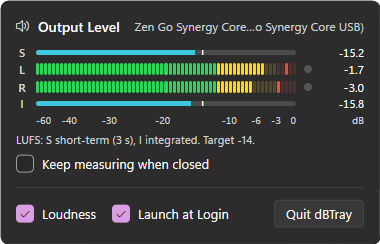
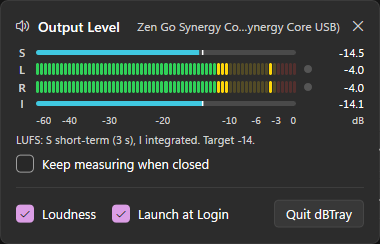
Keep the meter open until it is closed
The meter no longer closes when another window takes the focus. It
stays on top until the tray icon is clicked again, its new close
button is clicked, or Esc is pressed. The tray menu offers Close Meter
while it is open, and the open meter moves back next to the icon when
the screen or taskbar changes. Version 1.1.0.

diff --git a/src/MeterWindow.cpp b/src/MeterWindow.cpp
@@ -42,6 +42,8 @@ constexpr float kCheckboxLabelGap = 8;
 constexpr float kCheckboxRowHeight = 22;
 constexpr float kControlHeight = 28;
 constexpr float kControlRadius = 4;
+constexpr float kCloseButtonSize = 28;
+constexpr float kCloseButtonOverhang = 8;  // into the right padding, so the glyph lines up with the content
 constexpr float kNoteHeight = 18;
 constexpr float kWarningIndent = 20;
 constexpr float kScreenMargin = 12;
@@ -72,11 +74,13 @@ const Style kWarningStyle{12, kRegular, kLeading, true};
 const Style kHeaderIconStyle{16, kRegular, kLeading, false, false, true};
 const Style kWarningIconStyle{13, kRegular, kLeading, false, false, true};
 const Style kCheckIconStyle{12, kRegular, kCenter, false, false, true};
+const Style kCloseIconStyle{10, kRegular, kCenter, false, false, true};
 
 // Segoe Fluent Icons (Segoe MDL2 Assets on Windows 10) code points.
 constexpr wchar_t kSpeakerGlyph[] = L"\xE994";
 constexpr wchar_t kWarningGlyph[] = L"\xE7BA";
 constexpr wchar_t kCheckGlyph[] = L"\xE73E";
+constexpr wchar_t kCloseGlyph[] = L"\xE8BB";
 constexpr wchar_t kInfinity[] = L"-\x221E";
 constexpr wchar_t kEllipsis[] = L"\x2026";
 
@@ -89,6 +93,7 @@ constexpr wchar_t kOpenSettingsLabel[] = L"Open Settings";
 constexpr wchar_t kDisabledNote[] = L"Turn dBTray on in Startup apps to finish.";
 constexpr wchar_t kOtherCopyNote[] = L"Launch at Login is set for another copy of dBTray.";
 
+constexpr wchar_t kCloseHelp[] = L"Close";
 constexpr wchar_t kPeakHelp[] = L"Peak since last reset. Click to reset peaks and integrated loudness.";
 constexpr wchar_t kClipHelp[] = L"Clip indicator: lights when the signal reaches 0 dBFS";
 constexpr wchar_t kLoudnessHelp[] = L"Show short-term and integrated loudness (LUFS)";
@@ -211,16 +216,21 @@ void MeterWindow::Show(const RECT* icon) {
     UpdateWindow(hwnd_);
 }
 
-void MeterWindow::HideWindow(bool deactivated) {
-    if (hiding_ || !IsVisible()) return;
-    hiding_ = true;
+void MeterWindow::Hide() {
+    if (!IsVisible()) return;
     ShowWindow(hwnd_, SW_HIDE);
-    hiding_ = false;
     hover_ = pressed_ = focus_ = Control::None;
     ReleaseGraphics();
-    app_.OnMeterHidden(deactivated);
+    app_.OnMeterHidden();
     // Hand the pages the flyout touched back to the system; a tray app should sit small.
     SetProcessWorkingSetSize(GetCurrentProcess(), SIZE_T(-1), SIZE_T(-1));
+}
+
+void MeterWindow::Reposition(const RECT* icon) {
+    if (!IsVisible()) return;
+    hasIcon_ = icon != nullptr;
+    if (icon) iconRect_ = *icon;
+    Place();
 }
 
 void MeterWindow::Update() {
@@ -274,8 +284,10 @@ void MeterWindow::Relayout() {
     float y = kPadding;
 
     layout.header = {left, y, right, y + kHeaderHeight};
+    const float closeRight = right + kCloseButtonOverhang;
+    layout.closeButton = Centered(closeRight - kCloseButtonSize, closeRight, CenterY(layout.header), kCloseButtonSize);
     layout.titleWidth = std::ceil(Measure(kTitle, kTitleStyle).width);
-    const float nameWidth = right - (left + 16 + 6 + layout.titleWidth + 12);
+    const float nameWidth = layout.closeButton.left - 4 - (left + 16 + 6 + layout.titleWidth + 12);
     layout.deviceName = TruncateMiddle(model.OutputDeviceName(), kDeviceStyle, nameWidth);
     y += kHeaderHeight;
 
@@ -465,12 +477,14 @@ void MeterWindow::RebuildTooltips() {
         add(layout_.keepMeasuring, kKeepMeasuringHelp);
     }
     add(layout_.loudnessToggle, kLoudnessHelp);
+    add(layout_.closeButton, kCloseHelp);
 }
 
 // MARK: Input
 
 MeterWindow::Control MeterWindow::HitTest(float x, float y) const {
     const Layout& l = layout_;
+    if (Contains(l.closeButton, x, y)) return Control::Close;
     if (l.showsLoudness && Contains(l.keepMeasuring, x, y)) return Control::KeepMeasuring;
     if (Contains(l.loudnessToggle, x, y)) return Control::Loudness;
     if (Contains(l.launchToggle, x, y)) return Control::LaunchAtLogin;
@@ -519,6 +533,9 @@ void MeterWindow::MoveFocus(int step) {
 void MeterWindow::Activate(Control control) {
     Settings& settings = app_.Preferences();
     switch (control) {
+    case Control::Close:
+        Hide();
+        break;
     case Control::Meters:
         app_.Model().ResetPeaks();
         Invalidate();
@@ -577,8 +594,11 @@ LRESULT MeterWindow::HandleMessage(UINT message, WPARAM wParam, LPARAM lParam) {
         if (!positioning_) Resize();
         return 0;
     case WM_ACTIVATE:
-        // Like the system's flyouts, close as soon as something else gets the focus.
-        if (LOWORD(wParam) == WA_INACTIVE) HideWindow(true);
+        // The flyout stays open when another window takes the focus; the focus ring goes.
+        if (LOWORD(wParam) == WA_INACTIVE && showsFocus_) {
+            showsFocus_ = false;
+            Invalidate();
+        }
         break;
     case WM_MOUSEMOVE: {
         const Control control = HitTest(GET_X_LPARAM(lParam) / Scale(), GET_Y_LPARAM(lParam) / Scale());
@@ -773,6 +793,7 @@ void MeterWindow::Render() {
     target_->Clear(colors.background);
 
     DrawHeader();
+    DrawCloseButton();
     if (!l.error.empty()) DrawWarning(l.errorRect, l.error);
 
     if (l.showsLoudness) DrawLoudnessRow(l.shortTermRow, L"S", model.Reading().shortTerm);
@@ -823,7 +844,8 @@ void MeterWindow::DrawHeader() {
     DrawString(kTitle, Centered(titleLeft, titleLeft + layout_.titleWidth + 4, centerY), kTitleStyle,
                colors.textPrimary);
     if (!layout_.deviceName.empty()) {
-        DrawString(layout_.deviceName, Centered(titleLeft + layout_.titleWidth + 8, header.right, centerY),
+        DrawString(layout_.deviceName,
+                   Centered(titleLeft + layout_.titleWidth + 8, layout_.closeButton.left - 4, centerY),
                    kDeviceStyle, colors.textSecondary);
     }
 }
@@ -965,6 +987,19 @@ void MeterWindow::DrawButton(const D2D1_RECT_F& rect, const wchar_t* label, Cont
                     pressed ? colors.buttonFillPressed : hovered ? colors.buttonFillHover : colors.buttonFill);
     StrokeRoundedRect(inset, kControlRadius, colors.buttonStroke, 1);
     DrawString(label, rect, kButtonStyle, pressed ? colors.textSecondary : colors.textPrimary);
+}
+
+// A borderless button like the close buttons of Windows 11 flyouts: a fill only under the mouse.
+void MeterWindow::DrawCloseButton() {
+    const Palette& colors = app_.Colors();
+    const bool hovered = hover_ == Control::Close;
+    const bool pressed = hovered && pressed_ == Control::Close;
+    if (hovered) {
+        FillRoundedRect(layout_.closeButton, kControlRadius,
+                        pressed ? colors.subtleFillPressed : colors.subtleFillHover);
+    }
+    DrawString(kCloseGlyph, layout_.closeButton, kCloseIconStyle,
+               hovered && !pressed ? colors.textPrimary : colors.textSecondary);
 }
 
 void MeterWindow::DrawFocusRing() {

diff --git a/src/App.cpp b/src/App.cpp
@@ -15,7 +15,7 @@ constexpr wchar_t kTip[] = L"dBTray output level";
 // Windows shows no indicator while an app listens to the output, so the icon says it.
 constexpr wchar_t kMeasuringTip[] = L"dBTray output level\nMeasuring loudness while closed";
 
-constexpr UINT kOpenMeterCommand = 1;
+constexpr UINT kToggleMeterCommand = 1;
 constexpr UINT kQuitCommand = 2;
 
 // Tells the app window when the default output device changes, so capture can move to it.
@@ -137,14 +137,12 @@ void App::ShowMeter() {
     UpdateTrayTip();
 }
 
-void App::OnMeterHidden(bool deactivated) {
-    if (deactivated) {
-        POINT cursor;
-        RECT icon;
-        if (GetCursorPos(&cursor) && tray_.GetRect(icon) && PtInRect(&icon, cursor)) {
-            ignoreSelectUntil_ = GetTickCount64() + 1000;
-        }
-    }
+void App::RepositionMeter() {
+    RECT icon;
+    meter_.Reposition(tray_.GetRect(icon) ? &icon : nullptr);
+}
+
+void App::OnMeterHidden() {
     if (settings_.KeepsMeasuringWhenClosed()) {
         model_.SetVisible(false);
     } else {
@@ -167,17 +165,14 @@ void App::RefreshTheme() {
 void App::OnTrayEvent(UINT event, POINT position) {
     switch (event) {
     case NIN_SELECT:
-    case NIN_KEYSELECT: {
-        const ULONGLONG now = GetTickCount64();
-        if (now < ignoreSelectUntil_) {
-            ignoreSelectUntil_ = 0;
-        } else if (!meter_.IsVisible()) {
+    case NIN_KEYSELECT:
+        // The icon opens and closes the meter; it stays open in between.
+        if (!meter_.IsVisible()) {
             ShowMeter();
-        } else if (now - shownAt_ > 300) {  // Enter reports NIN_KEYSELECT twice
+        } else if (GetTickCount64() - shownAt_ > 300) {  // Enter reports NIN_KEYSELECT twice
             meter_.Hide();
         }
         break;
-    }
     case WM_CONTEXTMENU:
         ShowMenu(position);
         break;
@@ -187,10 +182,10 @@ void App::OnTrayEvent(UINT event, POINT position) {
 void App::ShowMenu(POINT position) {
     const HMENU menu = CreatePopupMenu();
     if (!menu) return;
-    AppendMenuW(menu, MF_STRING, kOpenMeterCommand, L"Open Meter");
+    AppendMenuW(menu, MF_STRING, kToggleMeterCommand, meter_.IsVisible() ? L"Close Meter" : L"Open Meter");
     AppendMenuW(menu, MF_SEPARATOR, 0, nullptr);
     AppendMenuW(menu, MF_STRING, kQuitCommand, L"Quit dBTray");
-    SetMenuDefaultItem(menu, kOpenMeterCommand, FALSE);
+    SetMenuDefaultItem(menu, kToggleMeterCommand, FALSE);
 
     // The menu only closes on a click elsewhere if its owner is the foreground window.
     SetForegroundWindow(window_);
@@ -200,7 +195,13 @@ void App::ShowMenu(POINT position) {
     PostMessageW(window_, WM_NULL, 0, 0);
     DestroyMenu(menu);
 
-    if (command == kOpenMeterCommand && !meter_.IsVisible()) ShowMeter();
+    if (command == kToggleMeterCommand) {
+        if (meter_.IsVisible()) {
+            meter_.Hide();
+        } else {
+            ShowMeter();
+        }
+    }
     if (command == kQuitCommand) Quit();
 }
 
@@ -258,6 +259,7 @@ LRESULT App::HandleMessage(UINT message, WPARAM wParam, LPARAM lParam) {
         } else {
             tray_.UpdateImage();
         }
+        if (wParam == SPI_SETWORKAREA) RepositionMeter();  // the taskbar moved or changed size
         return 0;
     case WM_DWMCOLORIZATIONCOLORCHANGED:
         RefreshTheme();
@@ -265,6 +267,7 @@ LRESULT App::HandleMessage(UINT message, WPARAM wParam, LPARAM lParam) {
     case WM_DISPLAYCHANGE:
     case WM_DPICHANGED:
         tray_.UpdateImage();
+        RepositionMeter();
         return 0;
     case WM_CLOSE:
         DestroyWindow(window_);

diff --git a/src/MeterWindow.h b/src/MeterWindow.h
@@ -13,8 +13,9 @@
 class App;
 
 // The meter flyout that opens from the tray icon: L/R peak meters, the optional loudness bars and
-// the options. It is drawn with Direct2D so it can follow the Windows 11 look in both themes, and
-// closes like a system flyout when it loses focus.
+// the options. It is drawn with Direct2D so it can follow the Windows 11 look in both themes. It
+// stays open on top of other windows until it is closed with its close button, Esc or the tray
+// icon.
 class MeterWindow {
 public:
     explicit MeterWindow(App& app);
@@ -24,7 +25,9 @@ public:
     bool Create(HINSTANCE instance, HWND owner);
     // Opens next to the tray icon; `icon` is its screen rectangle, or null if that's unknown.
     void Show(const RECT* icon);
-    void Hide() { HideWindow(false); }
+    void Hide();
+    // Moves the open flyout back next to the tray icon after the screen or taskbar changed.
+    void Reposition(const RECT* icon);
     bool IsVisible() const;
     HWND Handle() const { return hwnd_; }
     void Invalidate();
@@ -42,7 +45,7 @@ public:
     };
 
 private:
-    enum class Control { None, Meters, KeepMeasuring, Loudness, LaunchAtLogin, Quit, OpenSettings };
+    enum class Control { None, Close, Meters, KeepMeasuring, Loudness, LaunchAtLogin, Quit, OpenSettings };
 
     struct CachedFormat {
         float size;
@@ -58,7 +61,7 @@ private:
         std::wstring deviceName;  // truncated to fit the header
         float titleWidth = 0;
         std::wstring error;
-        D2D1_RECT_F header{}, errorRect{};
+        D2D1_RECT_F header{}, closeButton{}, errorRect{};
         D2D1_RECT_F shortTermRow{}, leftRow{}, rightRow{}, integratedRow{}, scaleRow{};
         D2D1_RECT_F caption{}, keepMeasuring{};
         float dividerY = 0;
@@ -77,7 +80,6 @@ private:
 
     static LRESULT CALLBACK WndProc(HWND hwnd, UINT message, WPARAM wParam, LPARAM lParam);
     LRESULT HandleMessage(UINT message, WPARAM wParam, LPARAM lParam);
-    void HideWindow(bool deactivated);
 
     // Layout and placement.
     void Relayout();
@@ -112,6 +114,7 @@ private:
     void DrawScale(const D2D1_RECT_F& row);
     void DrawCheckbox(const D2D1_RECT_F& rect, const wchar_t* label, bool checked, Control control);
     void DrawButton(const D2D1_RECT_F& rect, const wchar_t* label, Control control);
+    void DrawCloseButton();
     void DrawFocusRing();
     void FillRect(const D2D1_RECT_F& rect, const D2D1_COLOR_F& color);
     void FillRoundedRect(const D2D1_RECT_F& rect, float radius, const D2D1_COLOR_F& color);
@@ -134,7 +137,6 @@ private:
     RECT iconRect_{};
     bool hasIcon_ = false;
     bool positioning_ = false;
-    bool hiding_ = false;
 
     Layout layout_;
     Control hover_ = Control::None;

diff --git a/src/App.h b/src/App.h
@@ -28,14 +28,15 @@ public:
     LaunchAtLogin& Login() { return launchAtLogin_; }
     const Palette& Colors() const { return palette_; }
 
-    // Called by the flyout after it closed; `deactivated` when a click elsewhere closed it.
-    void OnMeterHidden(bool deactivated);
+    // Called by the flyout after it closed.
+    void OnMeterHidden();
 
 private:
     static LRESULT CALLBACK WndProc(HWND hwnd, UINT message, WPARAM wParam, LPARAM lParam);
     LRESULT HandleMessage(UINT message, WPARAM wParam, LPARAM lParam);
     void OnTrayEvent(UINT event, POINT position);
     void ShowMeter();
+    void RepositionMeter();
     void ShowMenu(POINT position);
     void RefreshTheme();
     void UpdateTrayTip();
@@ -50,8 +51,5 @@ private:
     MeterWindow meter_;
     Microsoft::WRL::ComPtr<IMMDeviceEnumerator> deviceEnumerator_;
     IMMNotificationClient* deviceNotifier_ = nullptr;
-    // Clicking the tray icon while the flyout is open closes it (the click takes the focus away)
-    // and then reports the click; these keep that click from opening it again.
-    ULONGLONG ignoreSelectUntil_ = 0;
     ULONGLONG shownAt_ = 0;
 };

diff --git a/src/Theme.cpp b/src/Theme.cpp
@@ -72,6 +72,8 @@ Palette MakePalette() {
         p.buttonFillHover = Rgb(0xFFFFFF, 0.0837f);
         p.buttonFillPressed = Rgb(0xFFFFFF, 0.0326f);
         p.buttonStroke = Rgb(0xFFFFFF, 0.093f);
+        p.subtleFillHover = Rgb(0xFFFFFF, 0.0605f);
+        p.subtleFillPressed = Rgb(0xFFFFFF, 0.0419f);
     } else {
         p.background = Rgb(0xF9F9F9);
         p.textPrimary = Rgb(0x000000, 0.8956f);
@@ -93,6 +95,8 @@ Palette MakePalette() {
         p.buttonFillHover = Rgb(0xF9F9F9, 0.5f);
         p.buttonFillPressed = Rgb(0xF9F9F9, 0.3f);
         p.buttonStroke = Rgb(0x000000, 0.1f);
+        p.subtleFillHover = Rgb(0x000000, 0.0373f);
+        p.subtleFillPressed = Rgb(0x000000, 0.0241f);
     }
     return p;
 }

diff --git a/src/Theme.h b/src/Theme.h
@@ -12,6 +12,7 @@ struct Palette {
     D2D1_COLOR_F accentFill, onAccent, accentText;
     D2D1_COLOR_F checkFill, checkFillHover, checkFillPressed, checkStroke;
     D2D1_COLOR_F buttonFill, buttonFillHover, buttonFillPressed, buttonStroke;
+    D2D1_COLOR_F subtleFillHover, subtleFillPressed;  // borderless buttons, like the close button
 };
 
 // "Windows mode" in Settings › Personalization › Colors: the theme of the taskbar and its flyouts.

diff --git a/README.md b/README.md
@@ -13,7 +13,7 @@ Click the dBTray icon (two rows of level segments) in the notification area to o
 - **Reset**: click any meter row to reset the peaks and clip indicators of both channels and start integrated loudness over.
 - **Launch at Login**: starts dBTray when you sign in. It uses the per-user `Run` registry key, so it appears under Settings › Apps › Startup. Turn it on from the copy of the app you'll keep using.
 
-The meter closes when you click anywhere else or press Esc. Tab, Space and Enter work the options; right-click the icon for *Open Meter* and *Quit dBTray*.
+The meter stays open on top of other windows while you work. Close it by clicking the dBTray icon again, with its **×** button, or with Esc. Tab, Space and Enter work the options; right-click the icon for *Open Meter* (*Close Meter* while it's open) and *Quit dBTray*.
 
 ## Download and run
 
@@ -51,6 +51,7 @@ The meter shows the digital signal apps send to the output device. It follows ea
 
 - dBar leaves per-app volume mixers that replay other apps' audio (FineTune) out of its tap. That is a macOS arrangement with no Windows equivalent, so dBTray has no such exclusion.
 - macOS shows a recording indicator while dBar measures in the background; Windows shows none, so dBTray's tooltip reports it.
+- dBar's popover closes when you click elsewhere. dBTray's meter stays on top until you close it, so it can stay in view while you use other apps.
 - dBTray adds a right-click menu on the icon, and opens the meter when started by hand.
 
 ## License
